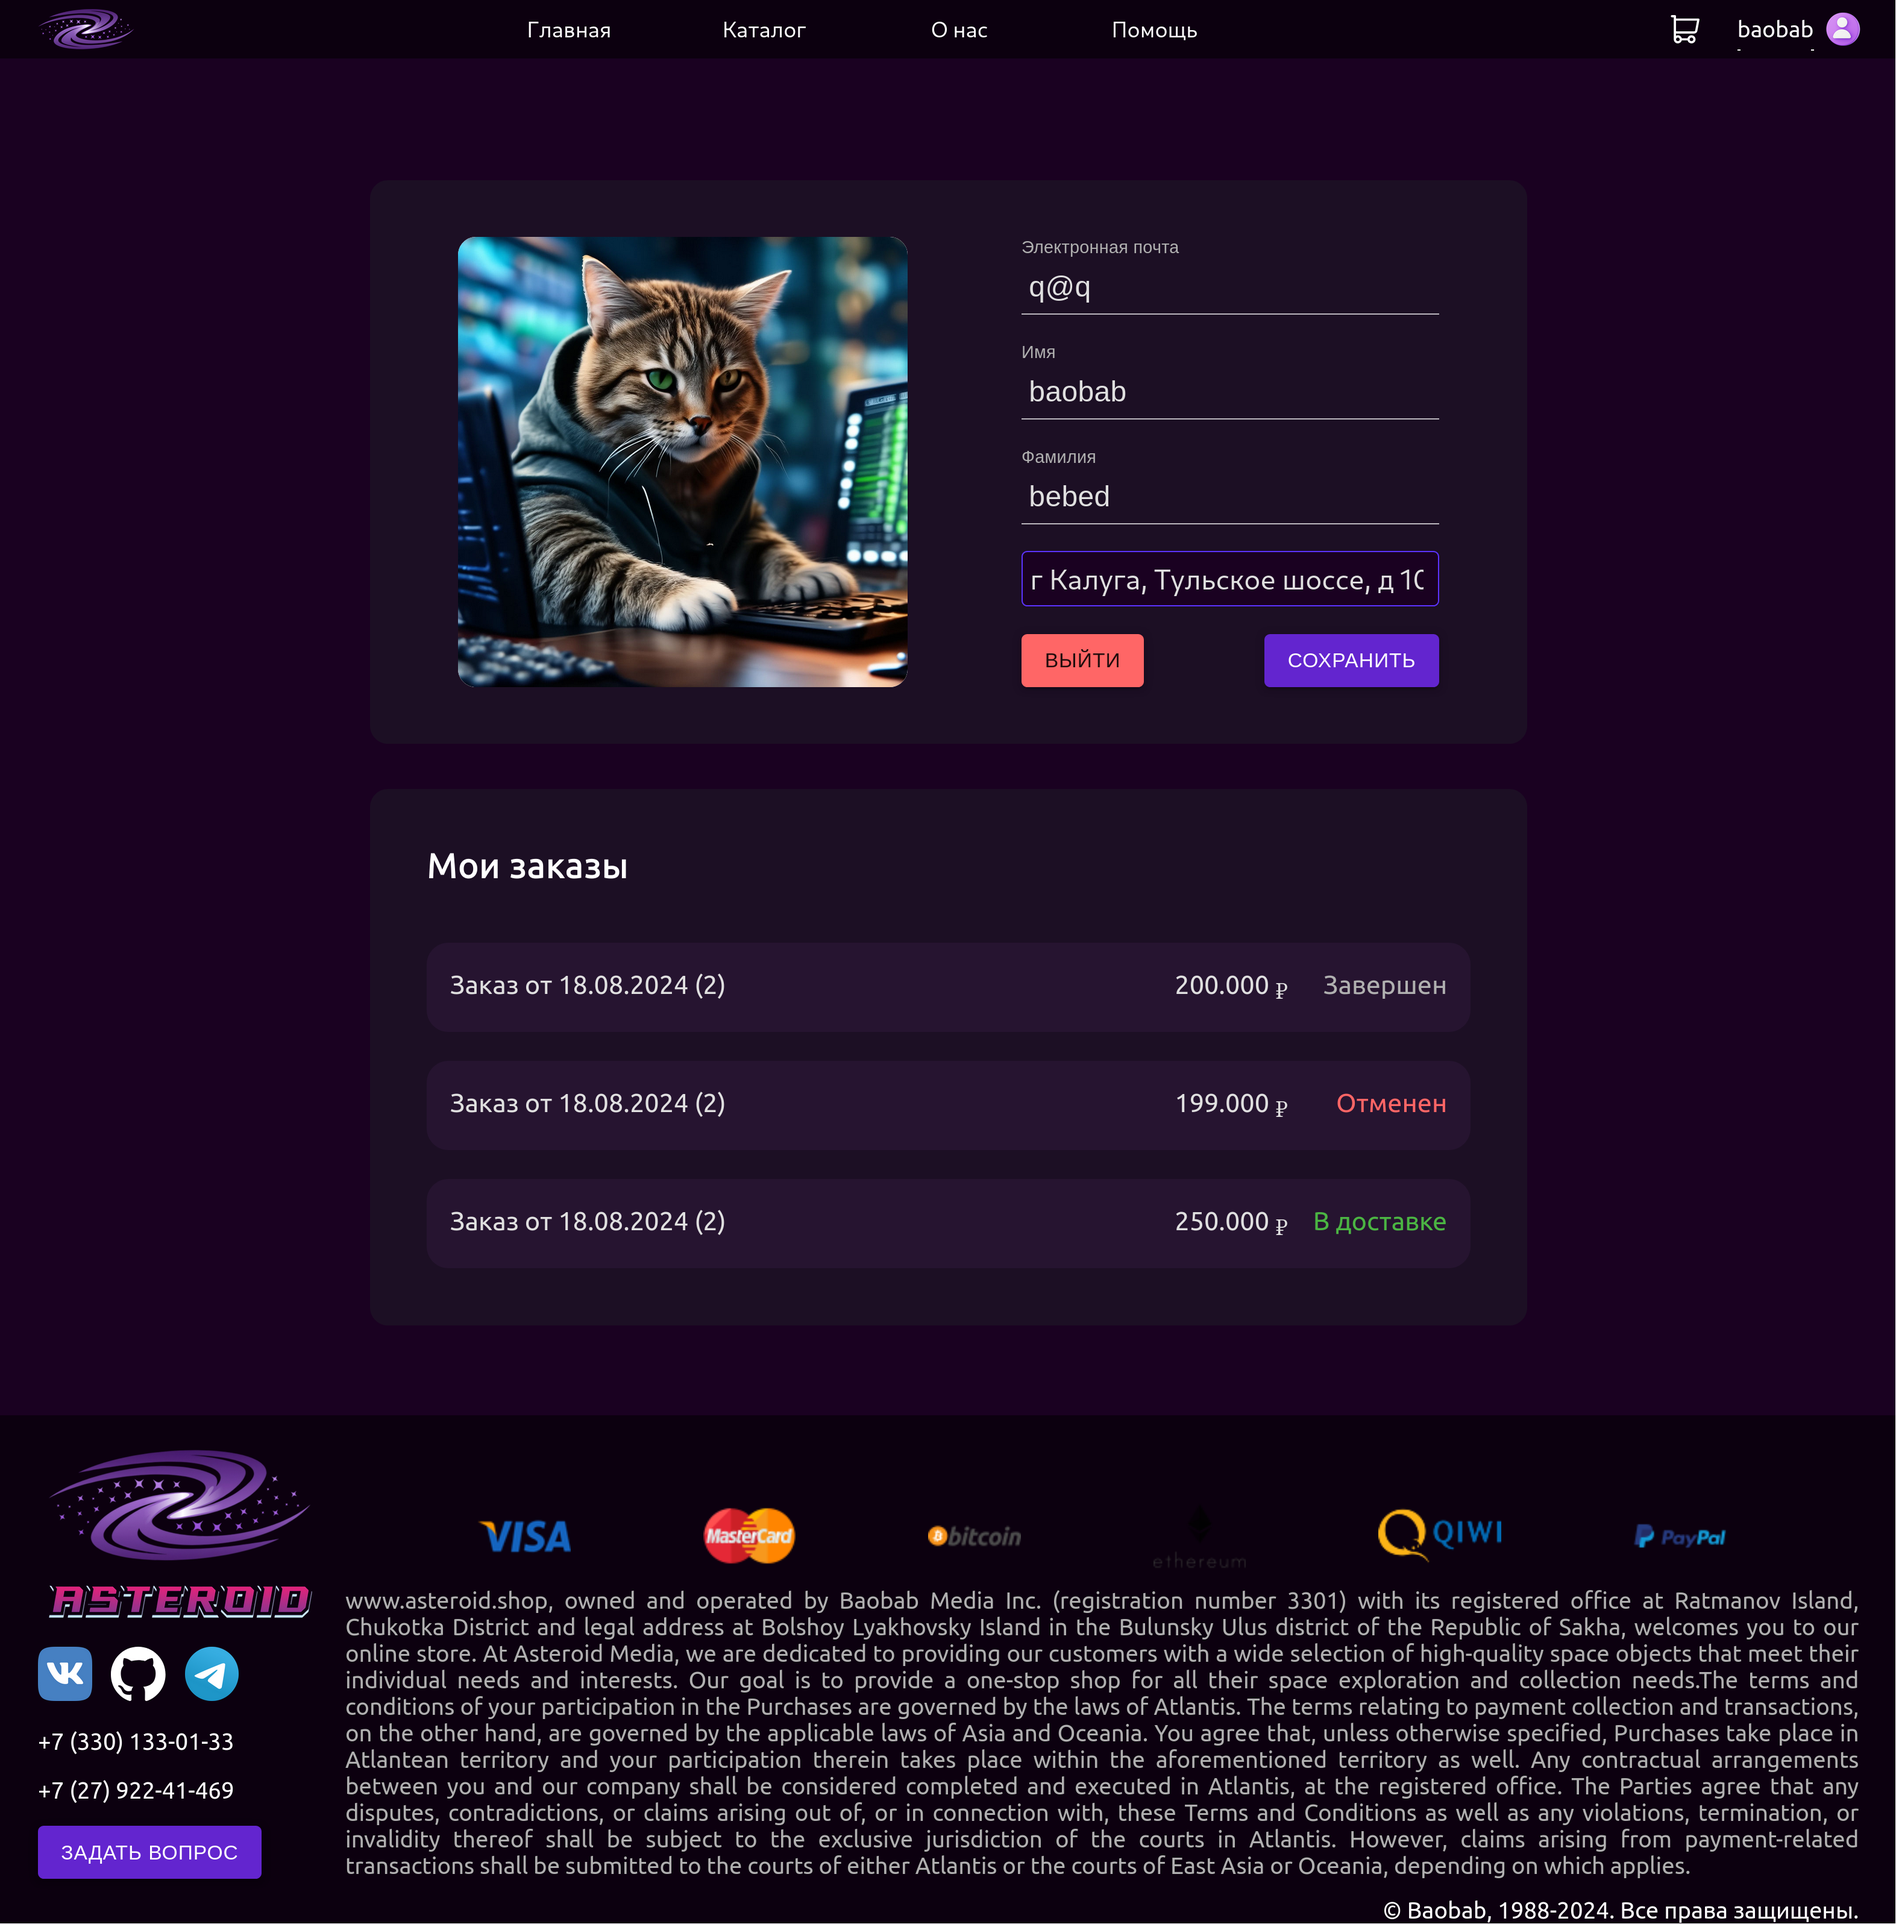
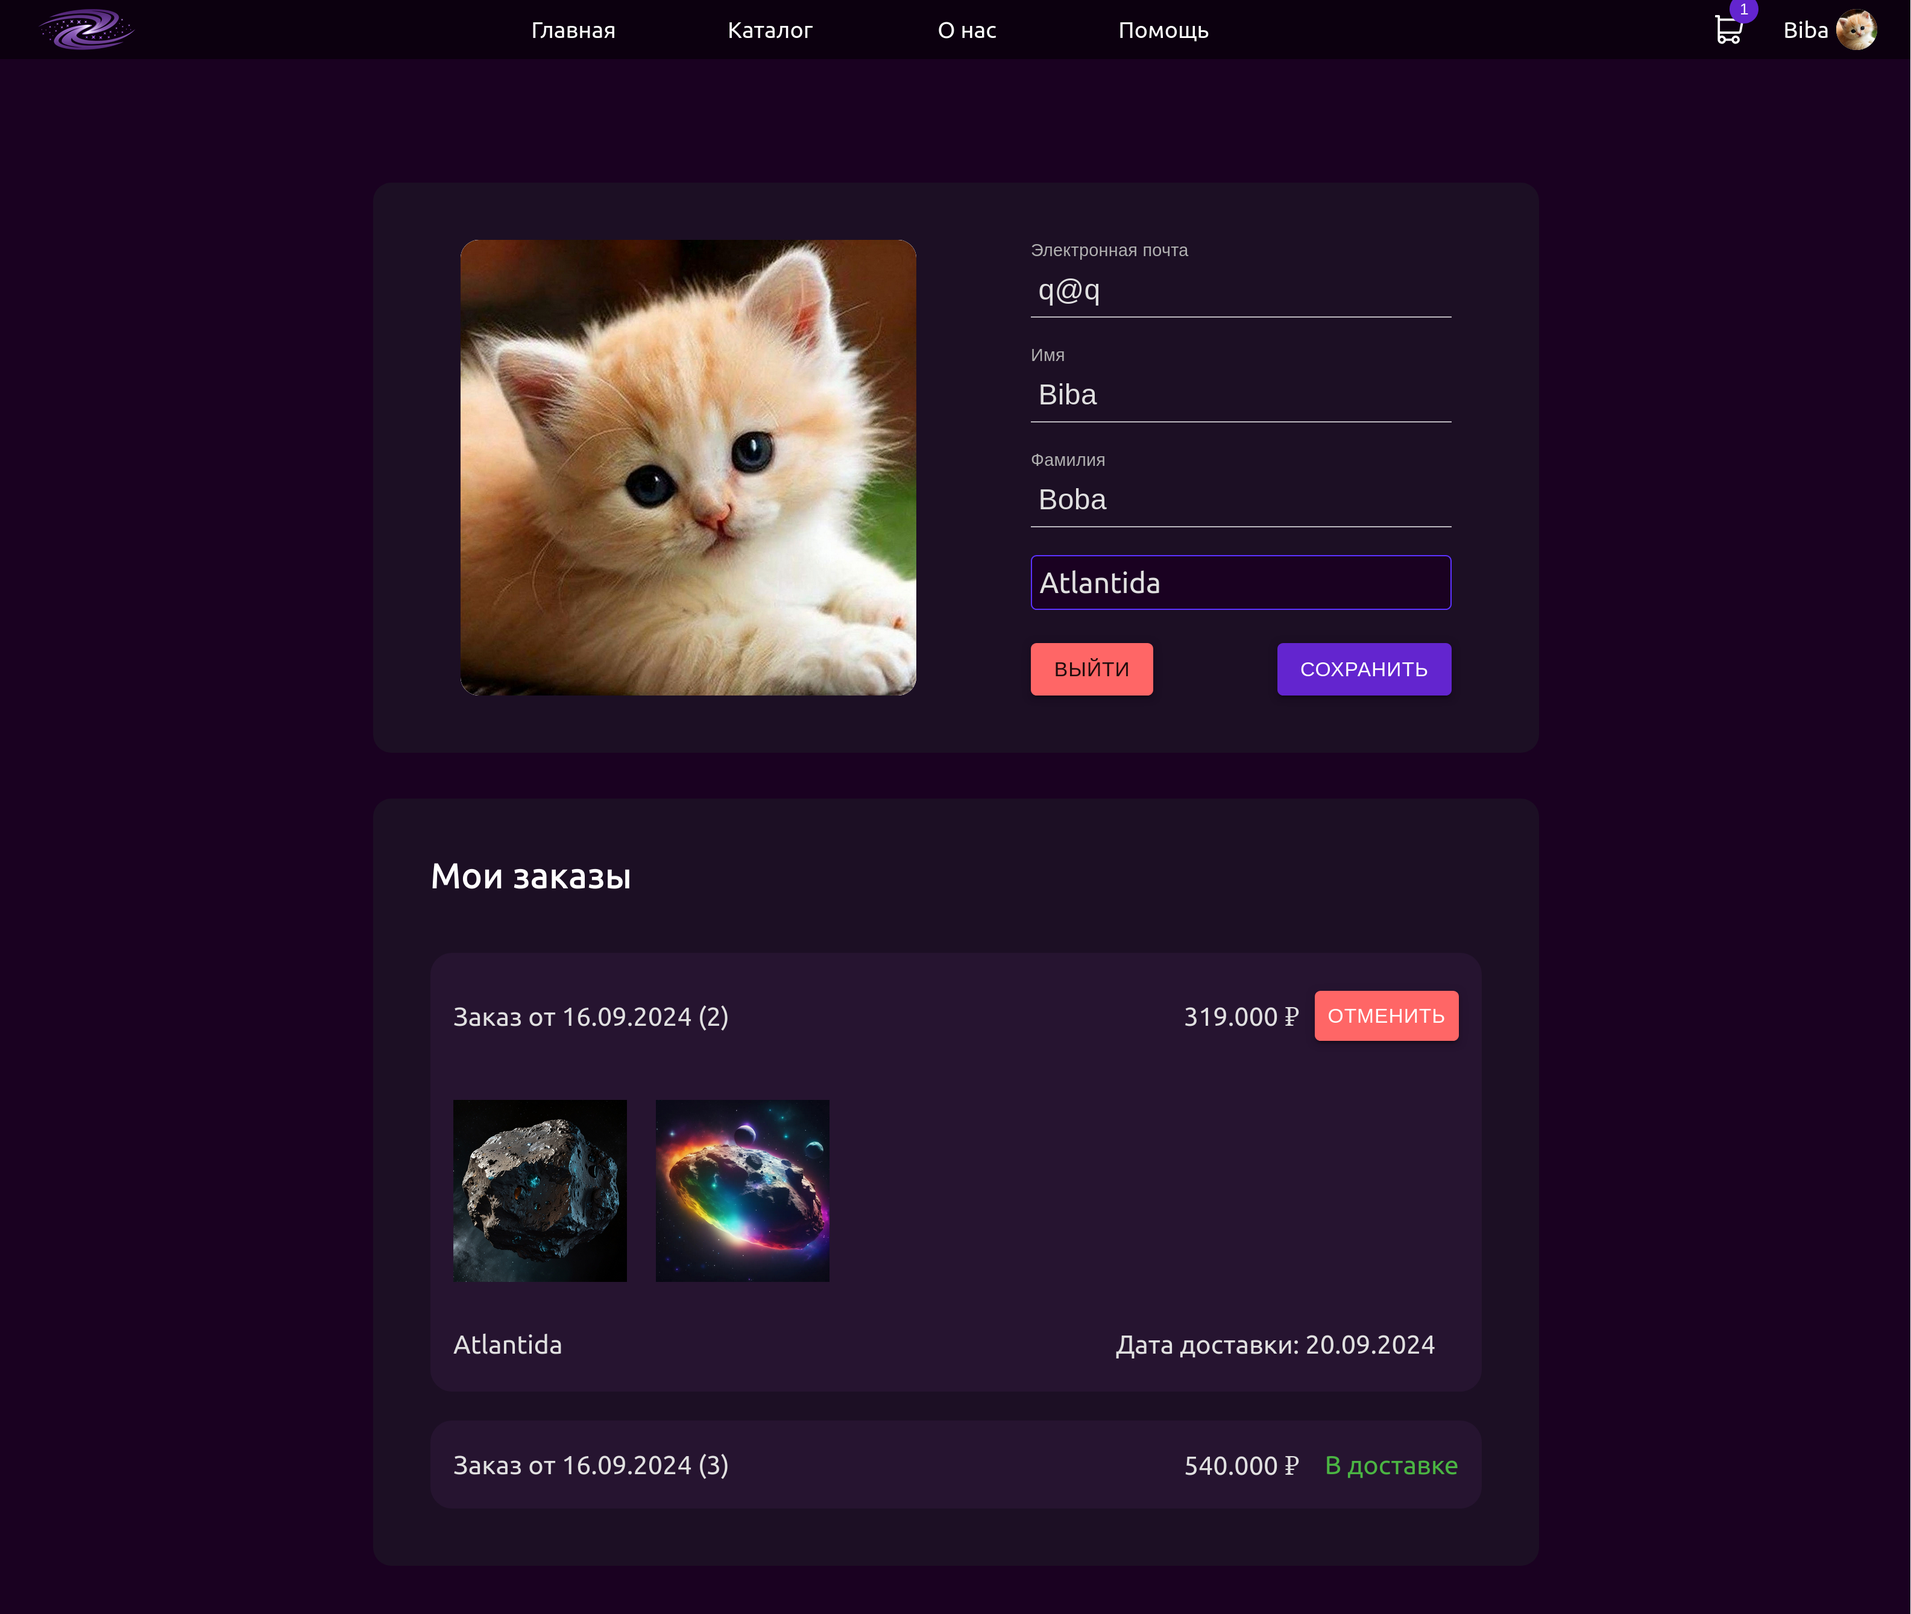
refactor(README & screenshots) Обновление скриншотов и удаление статуса 'в разработке' у админской панели

diff --git a/README.md b/README.md
@@ -49,12 +49,12 @@ npm start
 - **Каталог астероидов**: Возможность фильтрации по различным параметрам.
 - **Корзина**: Добавление астероидов в корзину и оформление заказа.
 - **Профиль**: Возможность отслеживания статуса доставки и отмены заказа.
-- **Административная панель**: Управление товарами, пользователями и заказами.(*В разработке*)
+- **Административная панель**: Управление товарами, пользователями и заказами.
 
 ## Скриншоты и демонстрации
 
 **Главная**
-![Главная](./screenshots/home.png)
+![Главная](./screenshots/Home.png)
 
 **Каталог**
 ![Каталог](./screenshots/Catalog.png)
@@ -67,6 +67,9 @@ npm start
 
 **Профиль**
 ![Профиль](./screenshots/Profile.png)
+
+**Админка**
+![Админка](./screenshots/Admin.png)
 ## Цель курсовой работы
 
 Основной целью проекта является демонстрация навыков создания полнофункционального веб-приложения с использованием современных технологий. Проект охватывает разработку и интеграцию серверной и клиентской частей, работу с базами данных, а также создание удобного и анимированного пользовательского интерфейса.
